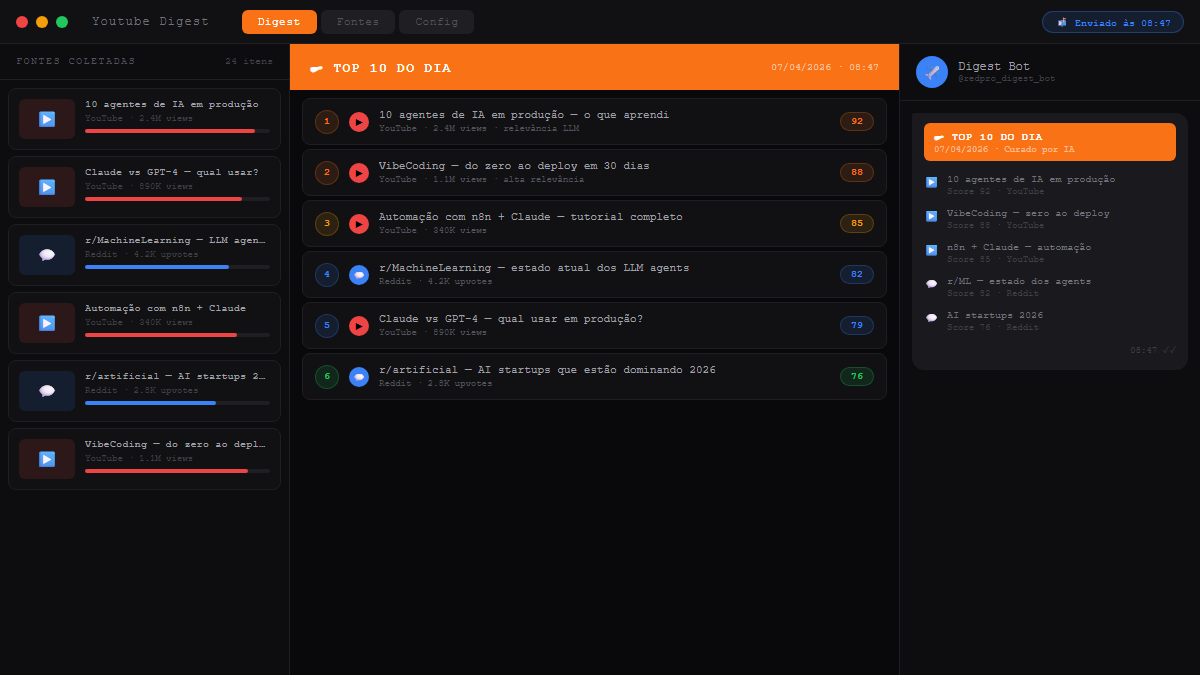
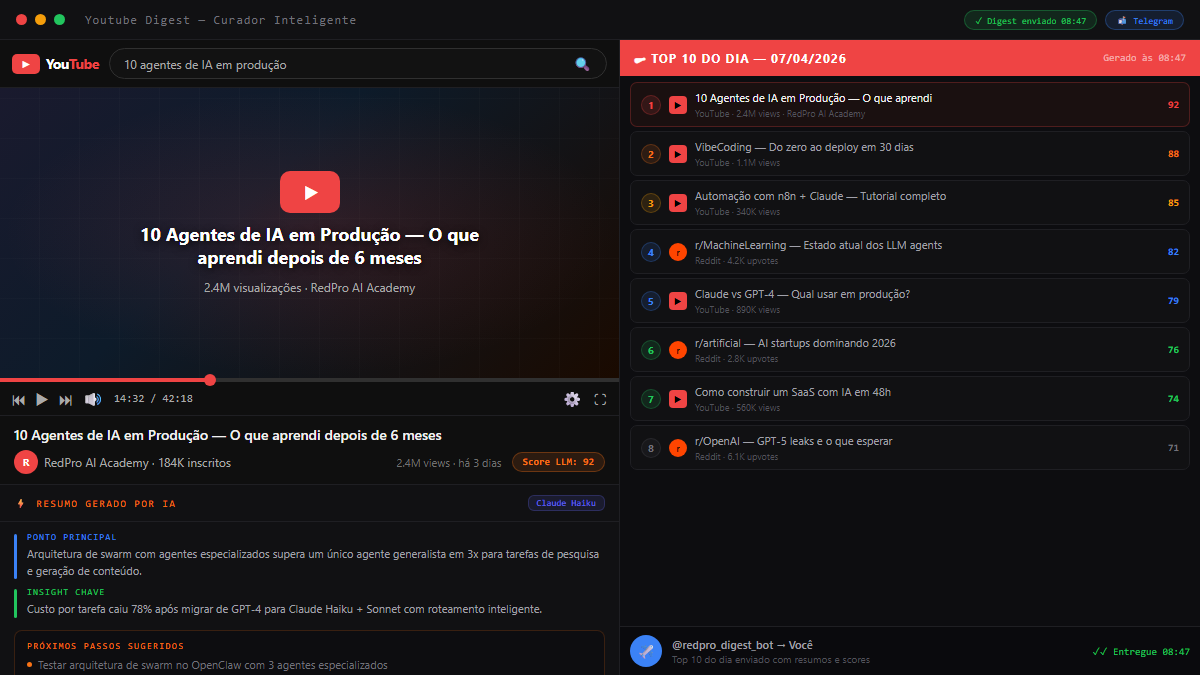
feat: update Youtube Digest — new screenshot with YT player + improved description

diff --git a/src/app/portfolio/page.tsx b/src/app/portfolio/page.tsx
@@ -99,7 +99,7 @@ const PROJECTS = [
         id: "youtubedigest",
         name: "Youtube Digest",
         tagline: "Você para de perder tempo assistindo",
-        description: "Você para de perder tempo assistindo. O sistema assiste por você — filtra o que importa no YouTube e Reddit, pontua por relevância com LLM e entrega o digest no Telegram antes das 9h.",
+        description: "Enquanto você trabalha, o sistema assiste por você. Todo dia antes das 9h, coleta e analisa centenas de vídeos e posts do YouTube e Reddit, pontua cada um por relevância com LLM e entrega um digest com o Top 10 direto no Telegram — só o que realmente importa para o seu mercado.",
         stack: ["Node.js", "Reddit API", "YouTube Data API v3", "Telegram Bot", "Convex", "OpenClaw Gateway"],
         category: "Automação",
         color: "from-orange-500 to-amber-500",
